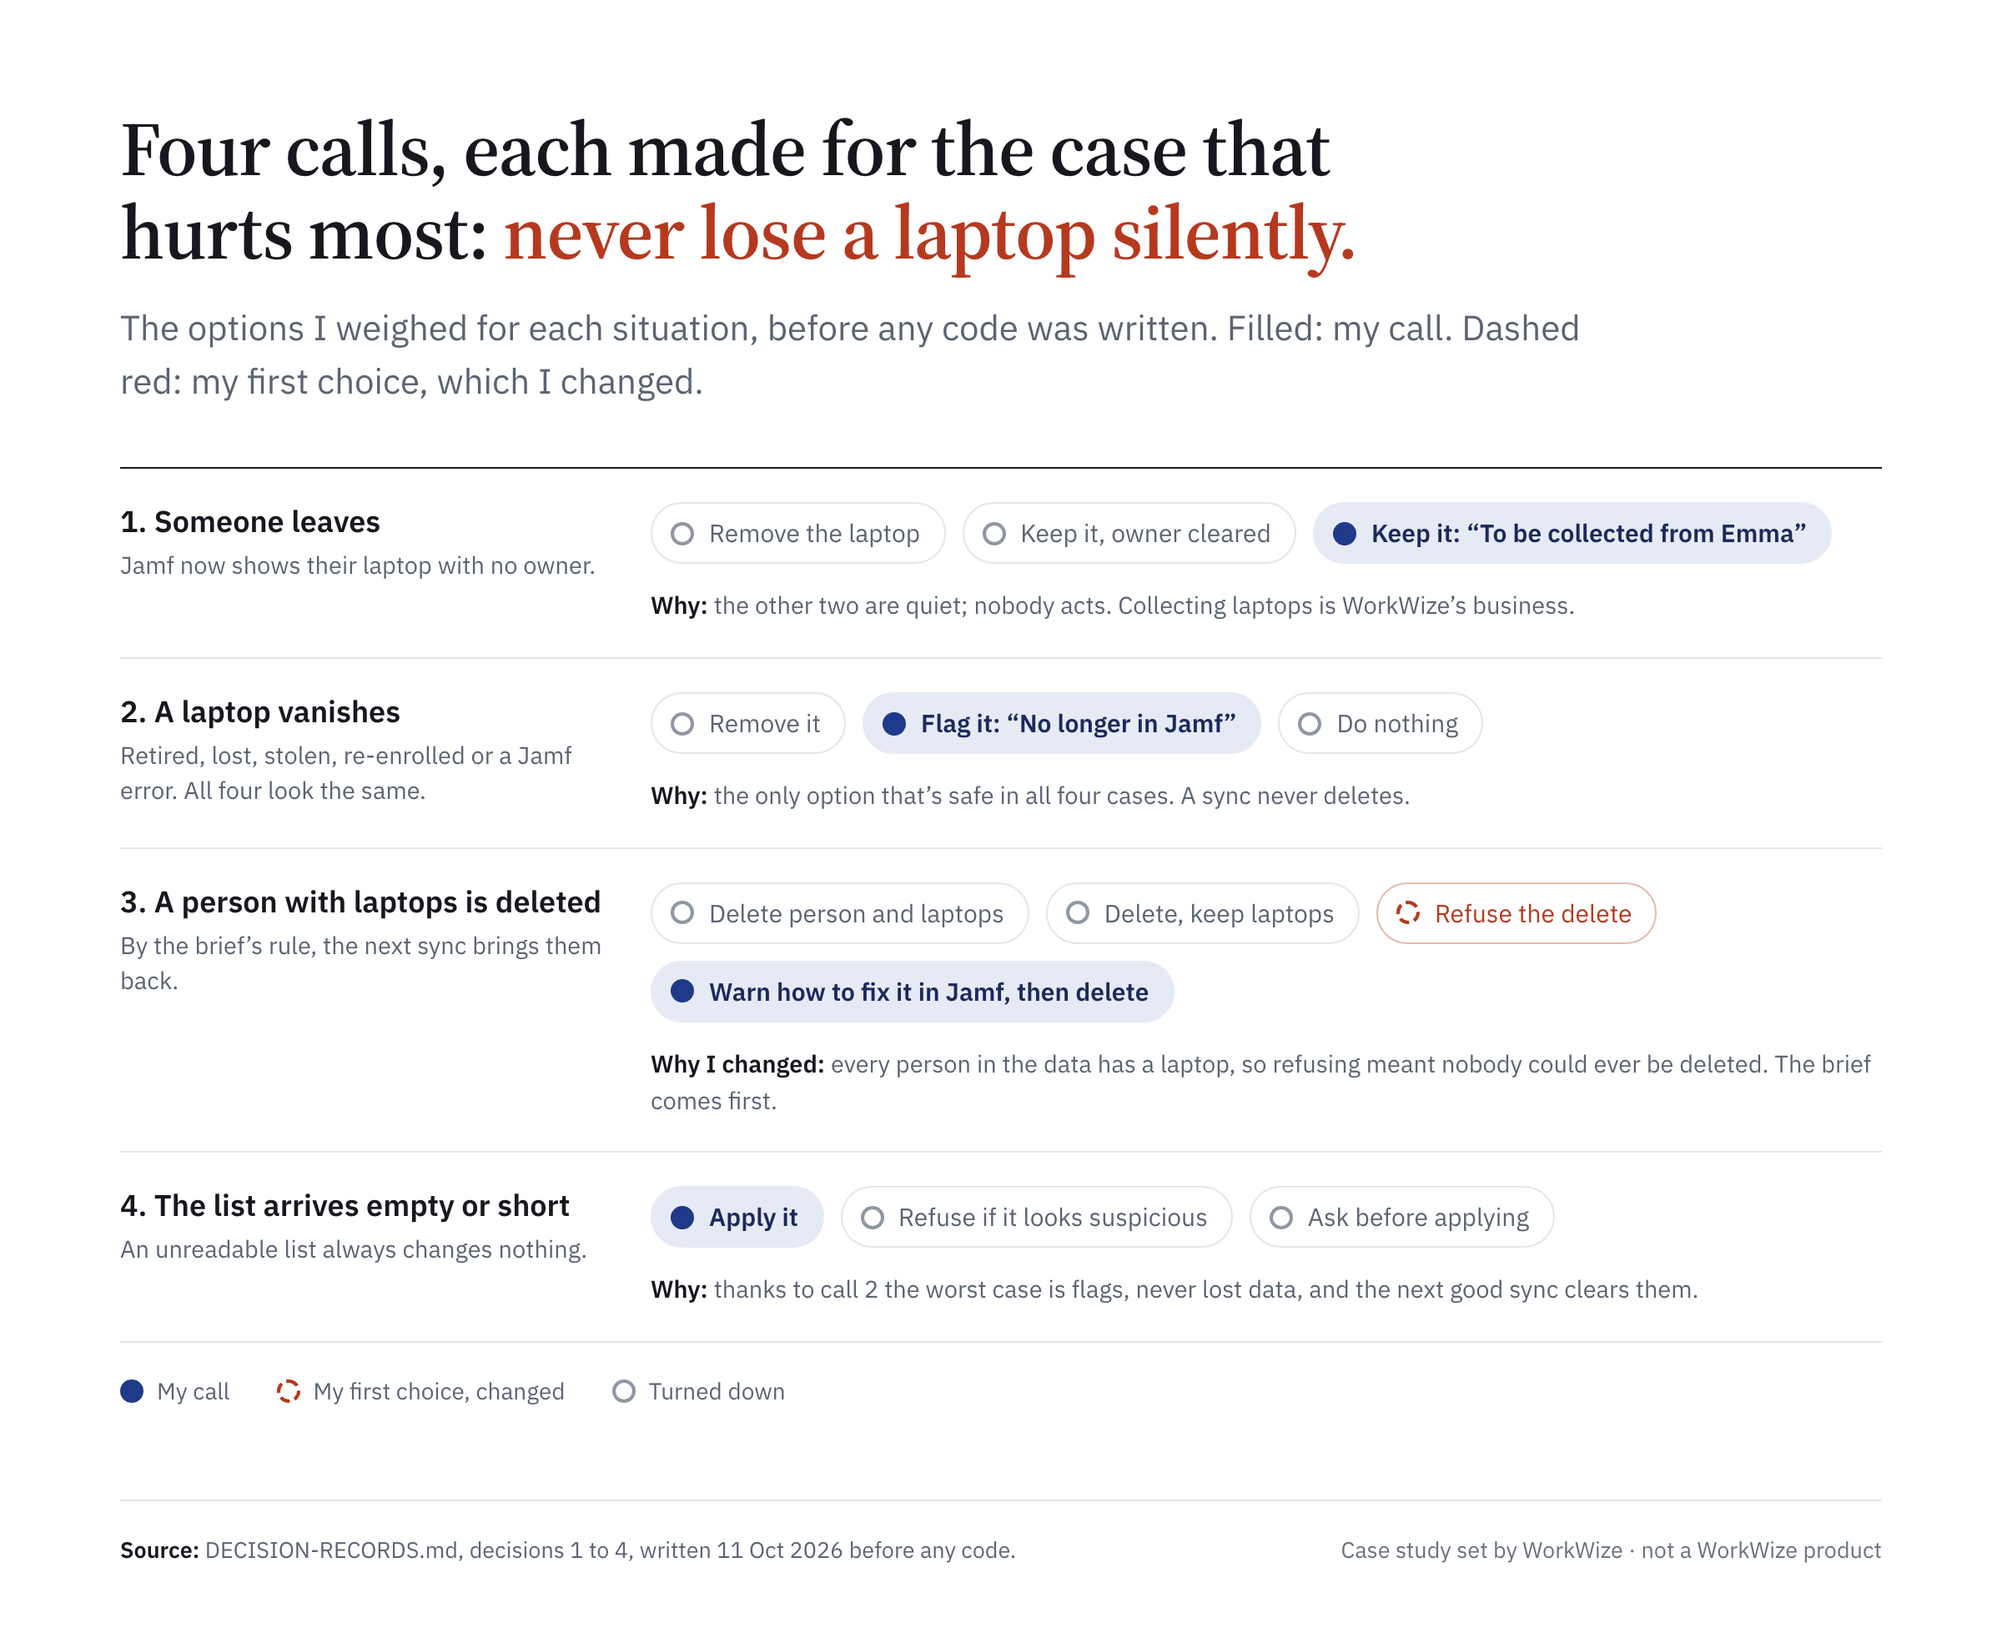
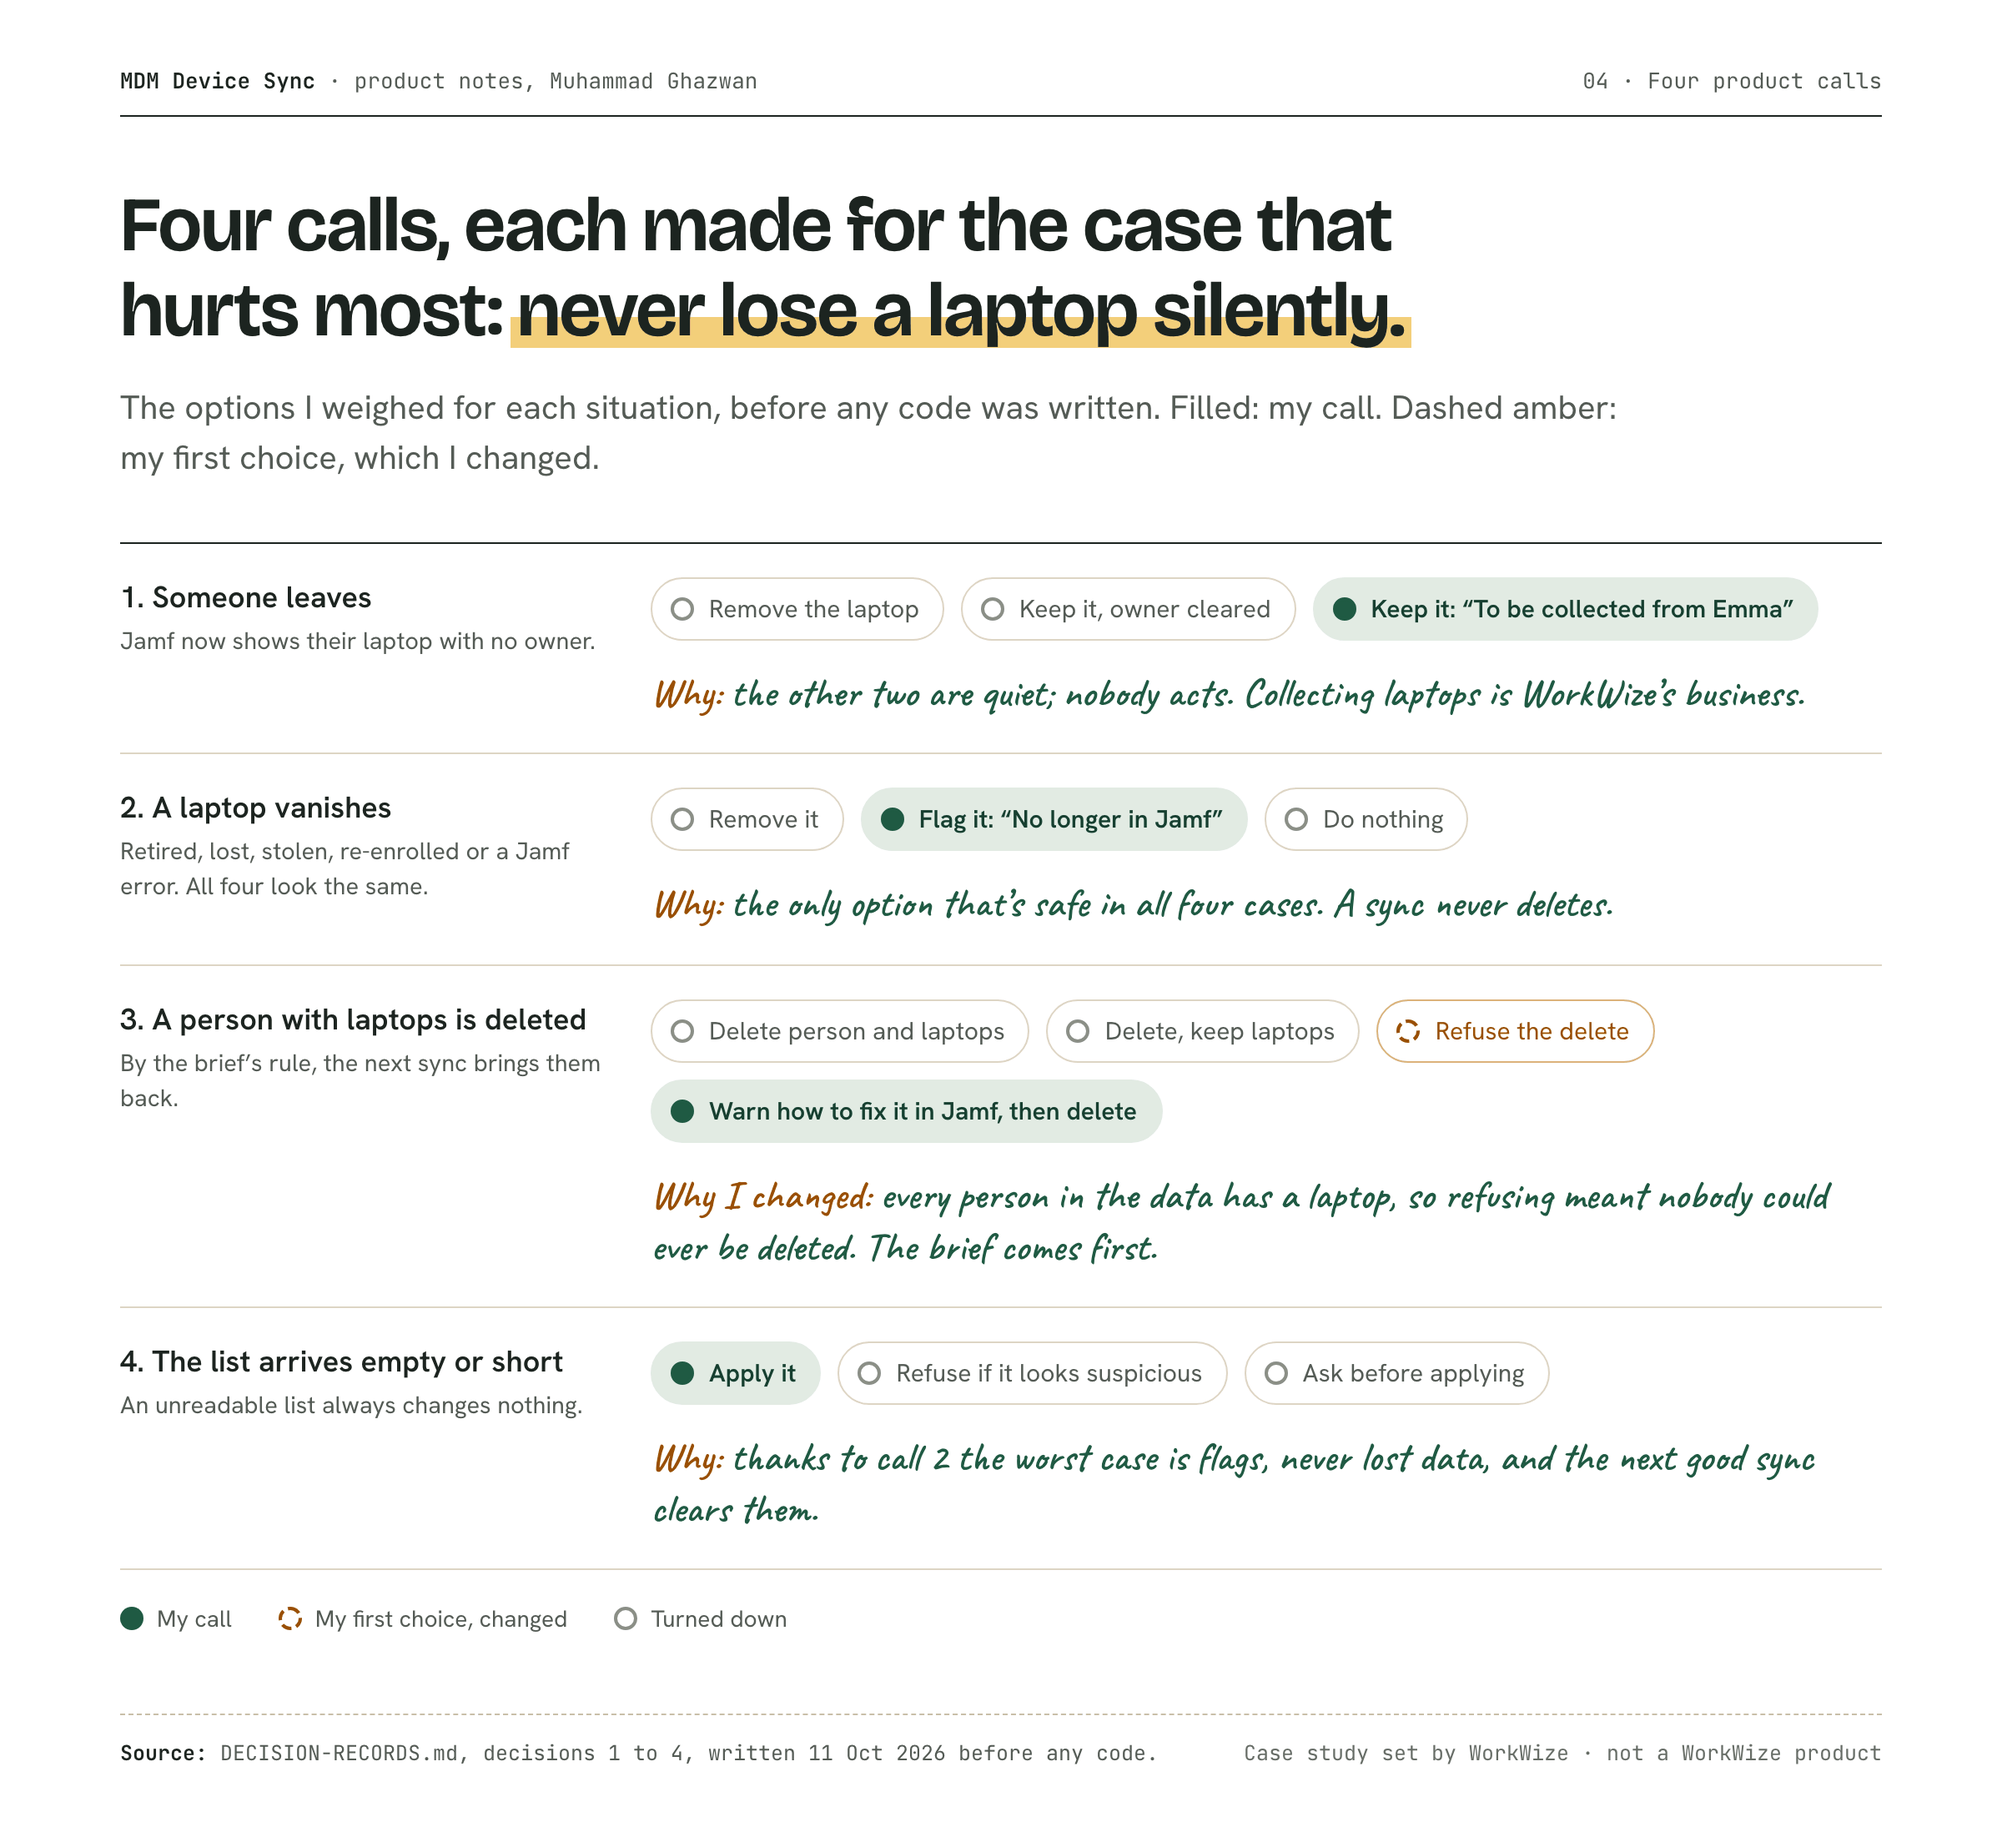
Images: own notebook style instead of the Revolut teardown's; overview reworked as question, three rules, proof
Same numbers and wording, new look: Bricolage Grotesque headlines with a highlighter,
Hanken Grotesk text, typewriter labels, green and amber ink, handwritten notes for
my reasons and quotes. Ledger headline no longer leads with the AI tools.
Impeccable detector: 0 findings.

diff --git a/README.md b/README.md
@@ -2,7 +2,7 @@
 
 *A case study set by WorkWize during their hiring process for a Full Stack Developer role, shared publicly with their permission. Not a WorkWize product.*
 
-![Summary. Laptops leave with people; the records should say so. Situation: WorkWize helps companies buy, ship, track and collect back laptops, and customers run Jamf. Complication: by the next sync people have left and laptops have vanished. Question: how should a sync treat change? Answer: never delete on a sync, flag what needs a person by name, change nothing when the list can't be read in full. Why I believe this: 6 decisions before any code; 250 tests and 82 deliberate breaks; 16 problems found, 14 fixed.](docs/images/summary.png)
+![Overview. Laptops leave with people; the records should say so. The question: how should a sync treat change, so the records stay safe, honest and easy to act on? My answer, as three rules: never delete on a sync (P3); flag what needs a person, by name (P5); change nothing when the list can't be read in full (P8). Proof: 6 decisions before any code; 250 tests and 82 deliberate breaks; 16 problems found, 14 fixed. Next step: turn To be collected into a collection order.](docs/images/summary.png)
 
 **Keeping a company's laptop records true when the system that manages the laptops changes underneath them.**
 
